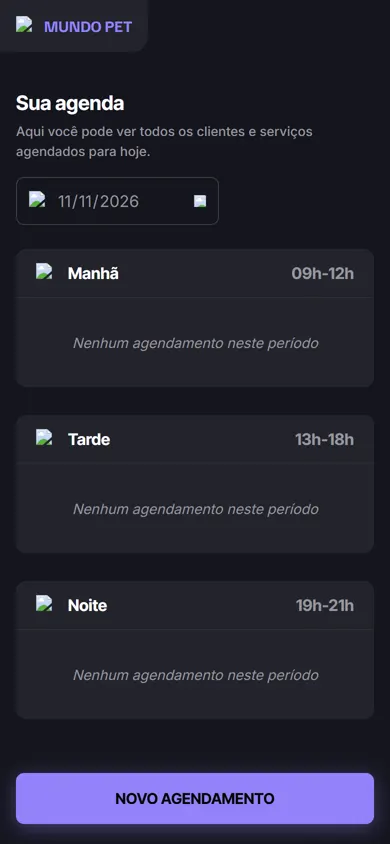
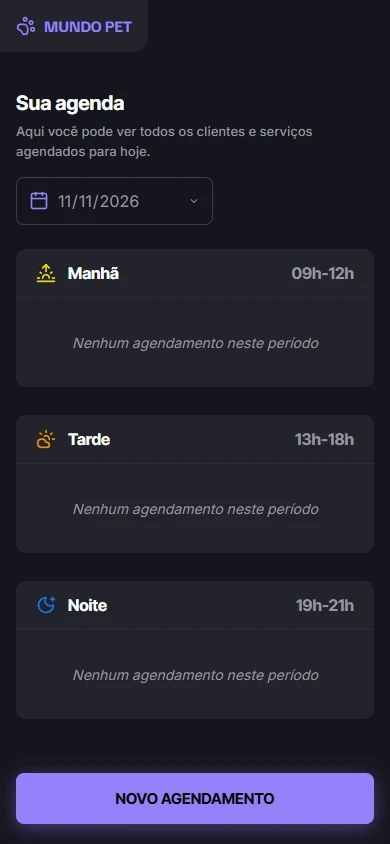
fix: ícones locais no lugar dos links expirados do Figma
Os ícones apontavam para URLs temporárias do Figma MCP
(figma.com/api/mcp/asset/...) que agora retornam 404. Substituídos por
SVGs do Lucide (ISC) em assets/icons/, com as cores do design:
logo (pata), calendário, seta do seletor de data e os ícones de
manhã/tarde/noite. Previews do README regenerados.

diff --git a/index.html b/index.html
@@ -17,7 +17,7 @@
       <!-- App Name -->
       <div class="app-logo">
         <img
-          src="https://www.figma.com/api/mcp/asset/1889f8e4-34b0-4e89-8de9-f0afe6641adc"
+          src="assets/icons/logo-paw.svg"
           alt="Logo"
         />
         <span>Mundo pet</span>
@@ -35,12 +35,12 @@
           </div>
           <div class="date-picker">
             <img
-              src="https://www.figma.com/api/mcp/asset/08649cfe-4511-4b95-a08e-8ad7782a041d"
+              src="assets/icons/calendar.svg"
               alt="Calendar"
             />
             <input type="date" id="dateFilter" />
             <img
-              src="https://www.figma.com/api/mcp/asset/a137b23d-6a42-4211-ae5a-e218f20b6548"
+              src="assets/icons/chevron-down.svg"
               alt="Arrow"
               class="arrow-icon"
             />
@@ -54,7 +54,7 @@
             <div class="period-header">
               <div class="period-title">
                 <img
-                  src="https://www.figma.com/api/mcp/asset/42c4134c-adb7-4697-90b2-2ce6e4639e2e"
+                  src="assets/icons/period-morning.svg"
                   alt="Morning"
                 />
                 <h2>Manhã</h2>
@@ -81,7 +81,7 @@
             <div class="period-header">
               <div class="period-title">
                 <img
-                  src="https://www.figma.com/api/mcp/asset/2c3381cf-0842-4fc6-802f-fd685e952ea6"
+                  src="assets/icons/period-afternoon.svg"
                   alt="Afternoon"
                 />
                 <h2>Tarde</h2>
@@ -130,7 +130,7 @@
             <div class="period-header">
               <div class="period-title">
                 <img
-                  src="https://www.figma.com/api/mcp/asset/5ab9bc23-61ab-48fb-8ad1-f431f638c515"
+                  src="assets/icons/period-night.svg"
                   alt="Night"
                 />
                 <h2>Noite</h2>

diff --git a/scripts/app.js b/scripts/app.js
@@ -4,19 +4,19 @@ const PERIODS = {
     name: "Manhã",
     start: 9,
     end: 12,
-    icon: "https://www.figma.com/api/mcp/asset/42c4134c-adb7-4697-90b2-2ce6e4639e2e",
+    icon: "assets/icons/period-morning.svg",
   },
   AFTERNOON: {
     name: "Tarde",
     start: 13,
     end: 18,
-    icon: "https://www.figma.com/api/mcp/asset/2c3381cf-0842-4fc6-802f-fd685e952ea6",
+    icon: "assets/icons/period-afternoon.svg",
   },
   NIGHT: {
     name: "Noite",
     start: 19,
     end: 21,
-    icon: "https://www.figma.com/api/mcp/asset/5ab9bc23-61ab-48fb-8ad1-f431f638c515",
+    icon: "assets/icons/period-night.svg",
   },
 };
 
